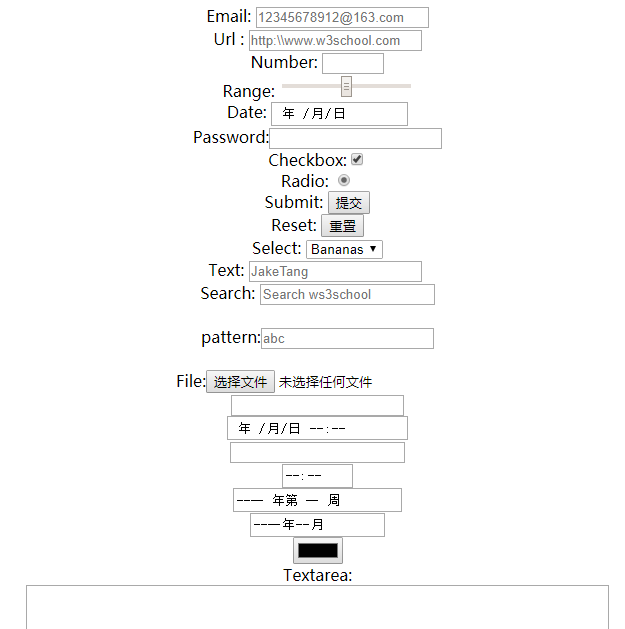
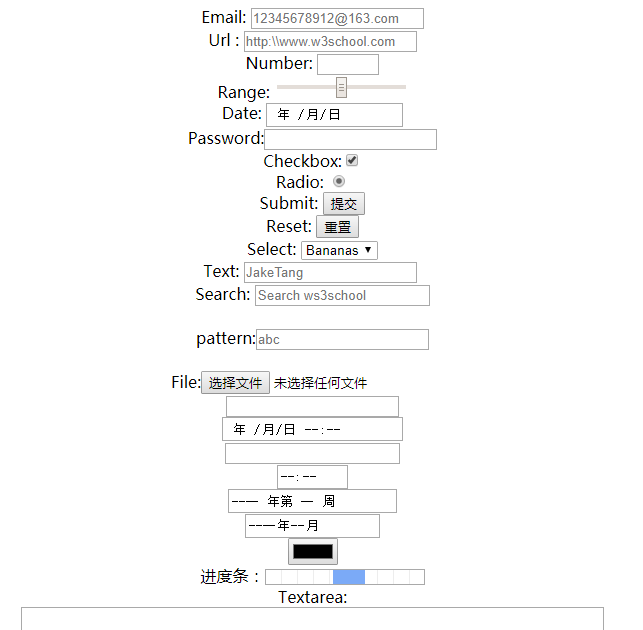
update

diff --git a/input/input.html b/input/input.html
@@ -1,4 +1,4 @@
-<!DOCTYPE html>
+<!DOCTYPE html>
 <html lang="en-US">
   <head>
     <meta charset="utf-8">
@@ -55,6 +55,7 @@
     <form>
       <input type="color" name="favcolor">
     </form>
+    进度条：<progress>progress</progress></br>
     <!--文本域-->
     Textarea:</br><textarea name="user_textarea" rows="5"cols="80"></textarea></br>
   </body>
